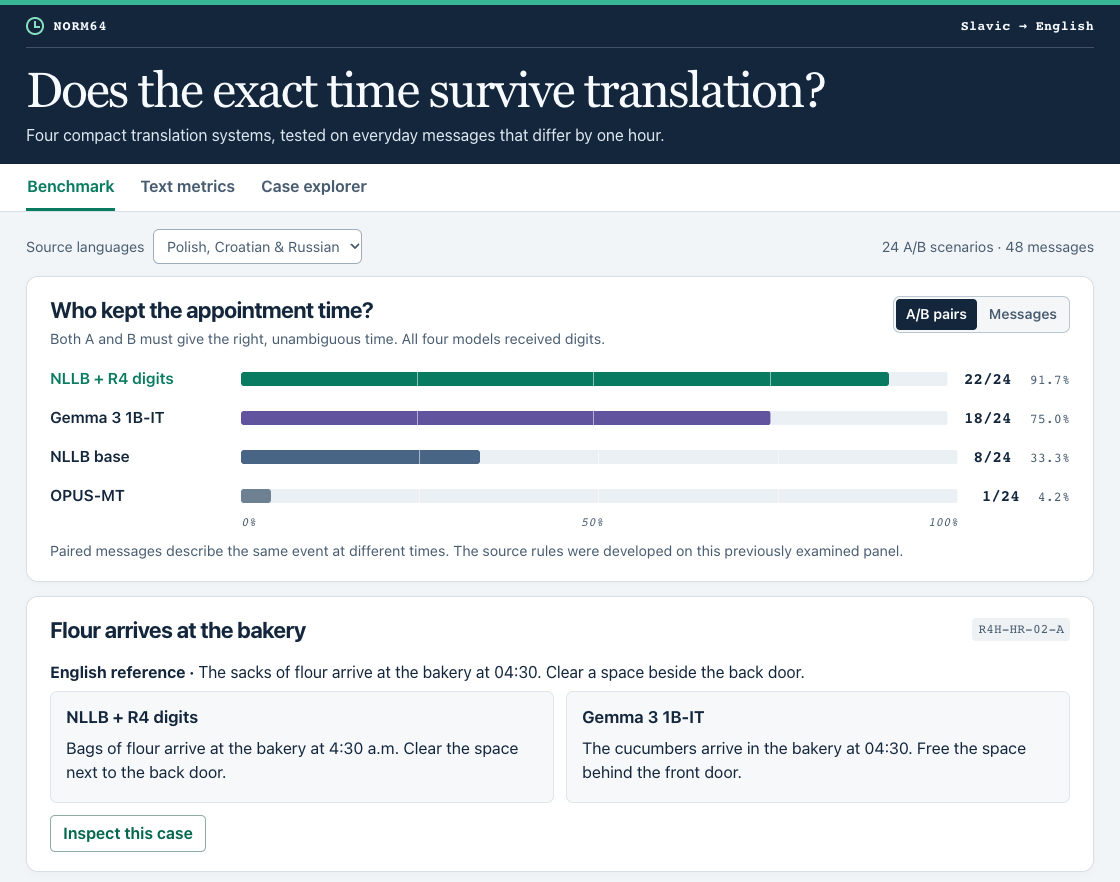
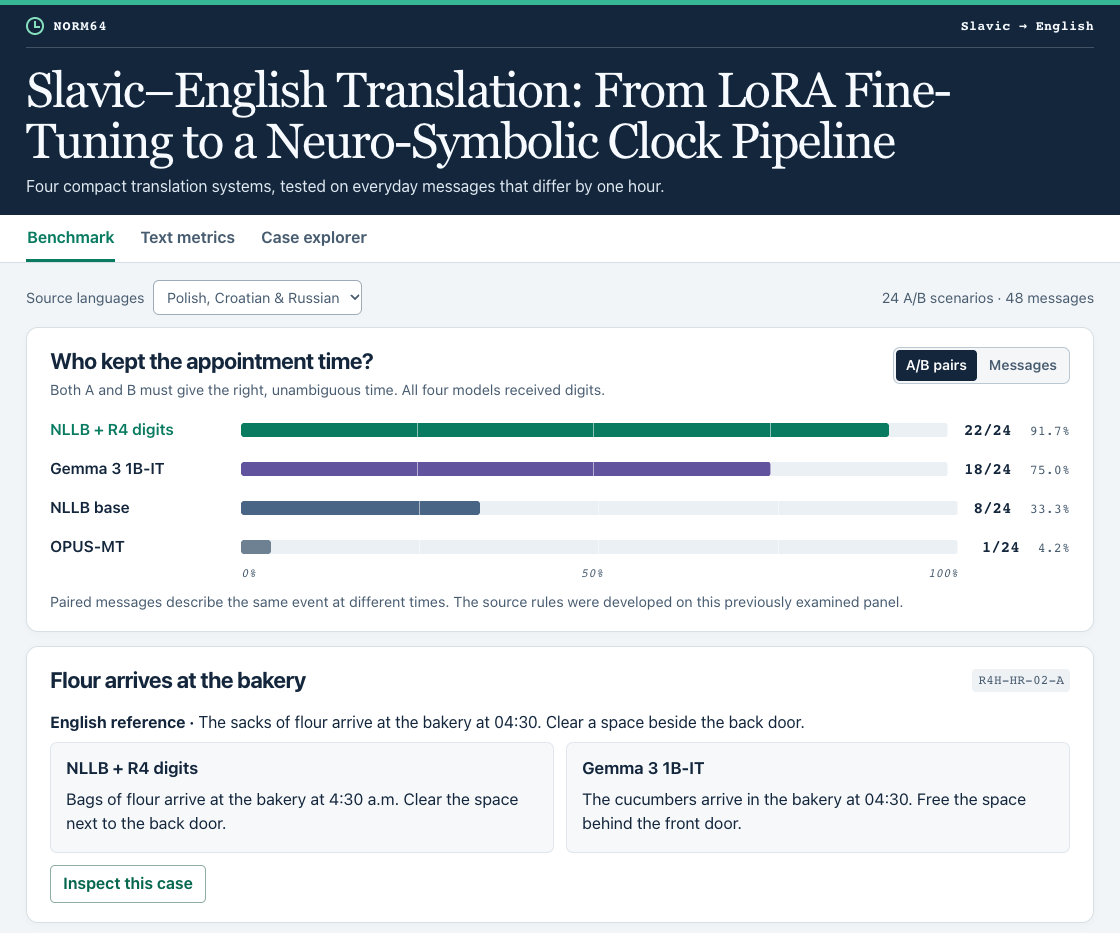
Open the live dashboard from the README and validate it in CI

diff --git a/docs/index.html b/docs/index.html
@@ -5,7 +5,7 @@
 <meta name="viewport" content="width=device-width, initial-scale=1">
 <meta name="color-scheme" content="light">
 <link rel="icon" href="data:,">
-<title>Norm64 · Does the exact time survive translation?</title>
+<title>Slavic–English Translation: From LoRA Fine-Tuning to a Neuro-Symbolic Clock Pipeline</title>
 <style>
 :root{--ink:#13263c;--muted:#485c70;--faint:#d8e0e6;--paper:#fff;--canvas:#f2f5f7;--green:#087b61;--pale:#e5f4ee;--purple:#62539e;--navy:#486585;--rust:#96451c;--mono:"IBM Plex Mono",ui-monospace,SFMono-Regular,Consolas,monospace;--text:"Inter",-apple-system,BlinkMacSystemFont,"Segoe UI",Arial,sans-serif}
 *{box-sizing:border-box}
@@ -83,7 +83,7 @@ footer{margin:18px 0 0;font-size:.87rem;color:var(--muted)}
 <body>
 <header><div class="wrap">
 <div class="mast"><span class="brand"><span class="mark" aria-hidden="true"></span>NORM64</span><span>Slavic → English</span></div>
-<h1>Does the exact time survive translation?</h1>
+<h1>Slavic–English Translation: From LoRA Fine-Tuning to a Neuro-Symbolic Clock Pipeline</h1>
 <p>Four compact translation systems, tested on everyday messages that differ by one hour.</p>
 </div></header>
 <div class="nav-shell"><nav class="wrap" aria-label="Research views">

diff --git a/tests/test_norm64_dashboard.py b/tests/test_norm64_dashboard.py
@@ -2,6 +2,7 @@
 
 import json
 from pathlib import Path
+import re
 import tempfile
 import unittest
 
@@ -76,3 +77,12 @@ class DashboardTests(unittest.TestCase):
     def test_shipped_dashboard_uses_current_records(self):
         dashboard = (RESULTS.parent / "docs" / "index.html").read_text(encoding="utf-8")
         self.assertEqual(embed(dashboard, self.data), dashboard)
+
+    def test_readme_opens_hosted_dashboard(self):
+        readme = (RESULTS.parent / "README.md").read_text(encoding="utf-8")
+        live_url = "https://silveroboros-dev.github.io/slavic-english-slm/"
+        preview = r"\[!\[[^\]]*\]\(docs/norm64-preview\.png\)\]\(([^)]+)\)"
+        link = r"\[Interactive dashboard\]\(([^)]+)\)"
+        for pattern in (preview, link):
+            with self.subTest(pattern=pattern):
+                self.assertEqual(re.findall(pattern, readme), [live_url])

diff --git a/README.md b/README.md
@@ -4,9 +4,9 @@ This project investigates compact models for offline translation from **Polish, 
 
 After four rounds of LoRA fine-tuning on NLLB-200-distilled-600M (R1–R4), we tested a **neuro-symbolic approach**. Norm64 gives each scenario two messages with different start times. With colloquial wording, the final **R4 digits** adapter preserved both times in **none of the 24** Polish, Croatian and Russian scenarios. When a rule first converted each half-hour expression to 24-hour digits, the same adapter passed **22 of 24**. We compared four models on those inputs and used a separate numeric check to flag time discrepancies in their English translations.
 
-[![Four models on normalized Polish, Croatian and Russian messages. R4 preserved both times in 22 of 24 scenarios, Gemma in 18, base NLLB in 8 and OPUS-MT in 1.](docs/norm64-preview.png)](docs/index.html)
+[![Four models on normalized Polish, Croatian and Russian messages. R4 preserved both times in 22 of 24 scenarios, Gemma in 18, base NLLB in 8 and OPUS-MT in 1.](docs/norm64-preview.png)](https://silveroboros-dev.github.io/slavic-english-slm/)
 
-**[Interactive dashboard](docs/index.html)** · On GitHub, choose **Download raw file** and open the saved HTML in your browser. In a local checkout, open `docs/index.html` directly. Choose a language, compare the four models or read both versions of a scenario. [Key research findings](#key-research-findings) · [Benchmark summary](#benchmark-summary) · [Repository structure](#repository-structure)
+**[Interactive dashboard](https://silveroboros-dev.github.io/slavic-english-slm/)** · Choose a language, compare the four models or read both versions of a scenario. For offline use, download the [standalone HTML file](https://github.com/Silveroboros-dev/slavic-english-slm/raw/refs/heads/main/docs/index.html) and open it in a browser. [Key research findings](#key-research-findings) · [Benchmark summary](#benchmark-summary) · [Repository structure](#repository-structure)
 
 ## Executive summary
 
